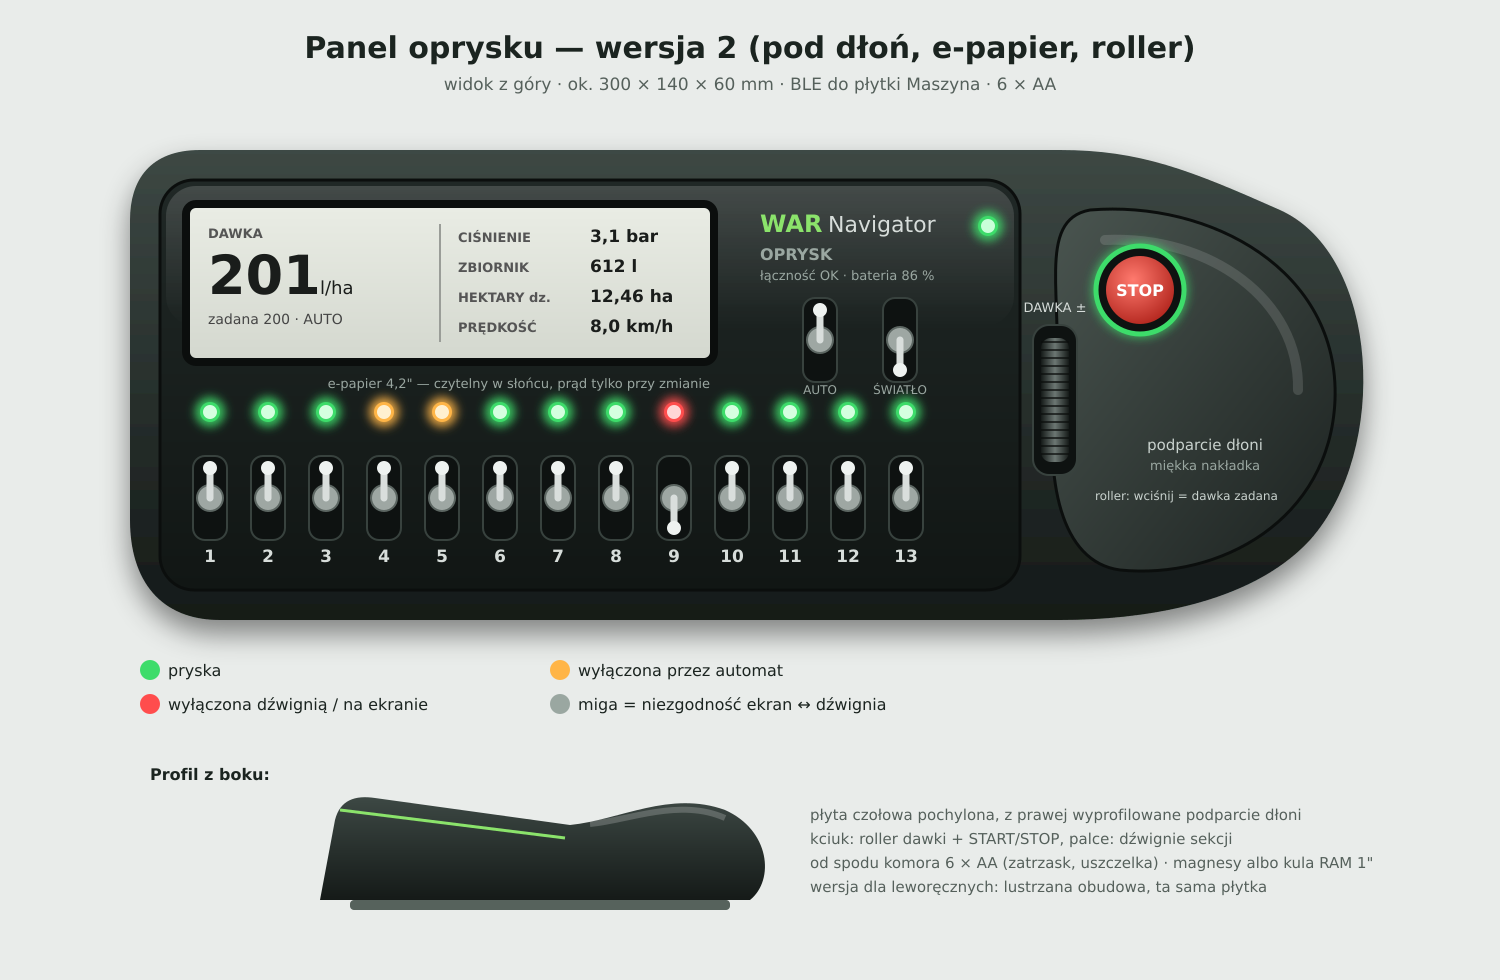
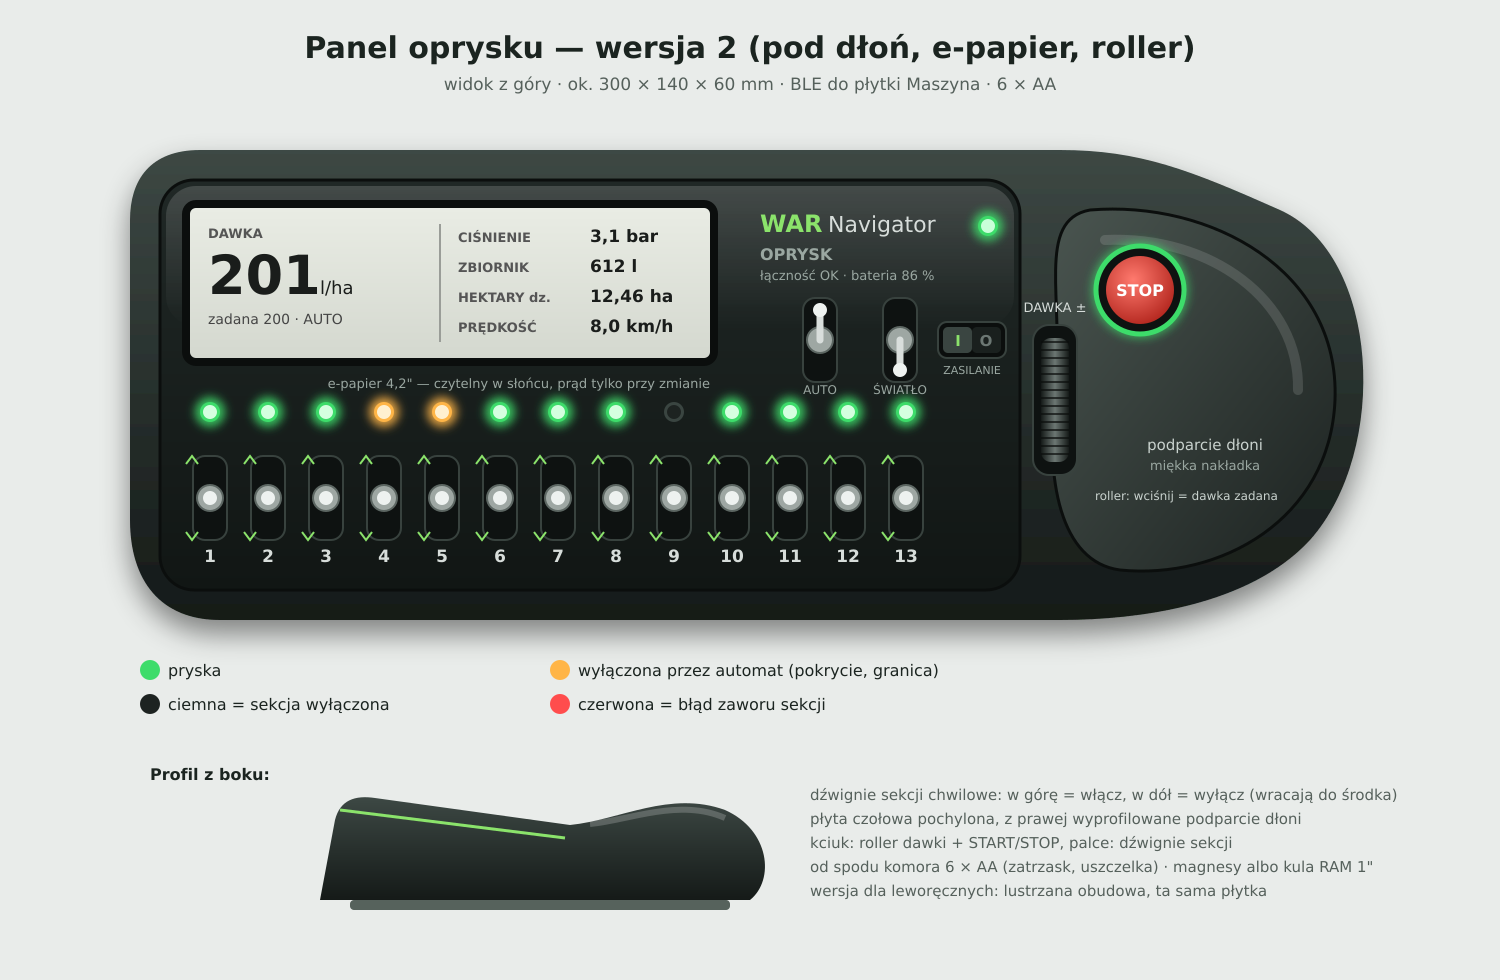
Panele: dźwignie sekcji chwilowe (stan na diodzie), włącznik zasilania [skip ci]

diff --git a/ROADMAP.md b/ROADMAP.md
@@ -57,7 +57,7 @@ Kolejność (jeden etap na przebieg). Terminal w Navigatorze najpierw działa z 
 - [ ] 21. **Na sam koniec:** obsługa protokołu AgOpenGPS Rate Control w firmware płytki Maszyna (dawka, przepływ, zawór regulacyjny sterowane z programu Rate Controller do AgOpenGPS) — płytka uniwersalna: Navigator albo AgOpenGPS (decyzja właściciela 2026-11-12). Protokół implementować według otwartego kodu RateController (GPL), oznaczyć pochodzenie.
 - [ ] 22. **Panel przełączników opryskiwacza** (decyzja właściciela 2026-11-20): zewnętrzny, bezprzewodowy (BLE do płytki Maszyna), 6 × AA; dźwignie sekcji IP67, diody RGB jak na ekranie Navigatora (zielona/żółta/czerwona, miganie przy niezgodności), START/STOP, AUTO/RĘCZNIE, oświetlenie, pokrętło dawki; płytka w całości z JLCPCB; nowoczesna opływowa obudowa (własny projekt), mocowanie magnes / kula RAM.
   - [x] 22a. Specyfikacja: hardware/panel/README.md + bom.csv (ESP32‑C3, 2 × IS31FL3236A, TPS62177, bilans baterii).
-  - [x] 22a‑2. Wersja 2 (wizualizacja_v2.png): obudowa pod dłoń z podparciem, roller dawki (AS5600 za ścianką), e‑papier 4,2"; ta sama płytka do panelu hydrauliki.
+  - [x] 22a‑2. Wersja 2 (wizualizacja_v2.png): obudowa pod dłoń z podparciem, roller dawki (AS5600 za ścianką), e‑papier 4,2"; dźwignie sekcji chwilowe (stan tylko na diodzie: zielona / żółta / ciemna, czerwona = błąd), włącznik zasilania; ta sama płytka do panelu hydrauliki.
   - [ ] 22b. Schemat i PCB w KiCad, pliki JLCPCB.
   - [ ] 22c. Obudowa (OpenSCAD/CadQuery → STL).
   - [ ] 22d. Firmware panelu + BLE w płytce Maszyna (PGN 162/163) + Navigator (parowanie, bateria, „panel niedostępny”).

diff --git a/hardware/panel/README.md b/hardware/panel/README.md
@@ -16,6 +16,11 @@ pokrętło do dawki, 6 × AA, płytka w całości montowana w JLCPCB, nowoczesna
   wciśnięcie (mikroprzełącznik pod uszczelką) = powrót do dawki zadanej.
 - **Wyświetlacz e‑papier 4,2"** (np. moduł SPI 400 × 300): dawka zadana/rzeczywista, ciśnienie, zbiornik, hektary, prędkość;
   czytelny w słońcu, prąd tylko przy odświeżeniu (co 2–5 s przy pracy) — bilans baterii prawie bez zmian.
+- **Dźwignie sekcji chwilowe** (samopowrót do środka): w górę = włącz, w dół = wyłącz. Stan pokazuje tylko dioda —
+  **zielona** = pryska, **żółta** = wyłączona przez automat (pokrycie, granica, uwrocie), **ciemna** = wyłączona,
+  **czerwona** = błąd zaworu sekcji. Nie ma już niezgodności dźwignia ↔ ekran (miganie niepotrzebne), a dźwignie w spoczynku
+  nie pobierają prądu. Zmiana z tabletu po prostu zmienia diodę.
+- **Włącznik zasilania** (kołyskowy I/O, uszczelniony) — odcina baterie całkowicie; panel wraca do ostatnio połączonej płytki.
 - Ta sama płytka panelu służy też do **panelu hydrauliki** (hardware/hydraulika) — inna płyta czołowa i firmware.
 
 ## Elementy na panelu

diff --git a/hardware/hydraulika/README.md b/hardware/hydraulika/README.md
@@ -37,6 +37,7 @@ Przypisanie wyjść i czasy (np. opóźnienie zaworu głównego) ustawiane w fir
 - Najpierw przycisk **HYDR. AKTYWNA** (świeci żółto; gaśnie sam po 60 s bez ruchu) — przypadkowe trącenie dźwigni nic nie robi.
 - Panel nadaje stan dźwigni co 100 ms; płytka **zamyka wszystkie zawory hydrauliki, gdy przez 0,3 s nie dostanie ramki**
   (utrata zasięgu, baterie, zawieszenie) albo po STOP.
+- Włącznik zasilania I/O na panelu (jak w panelu oprysku).
 - Dwa kierunki jednej funkcji nigdy naraz (blokada w firmware płytki i panelu).
 - Po włączeniu zasilania płytka startuje z zaworami zamkniętymi; hydraulika nieaktywna do naciśnięcia HYDR. AKTYWNA.
 
